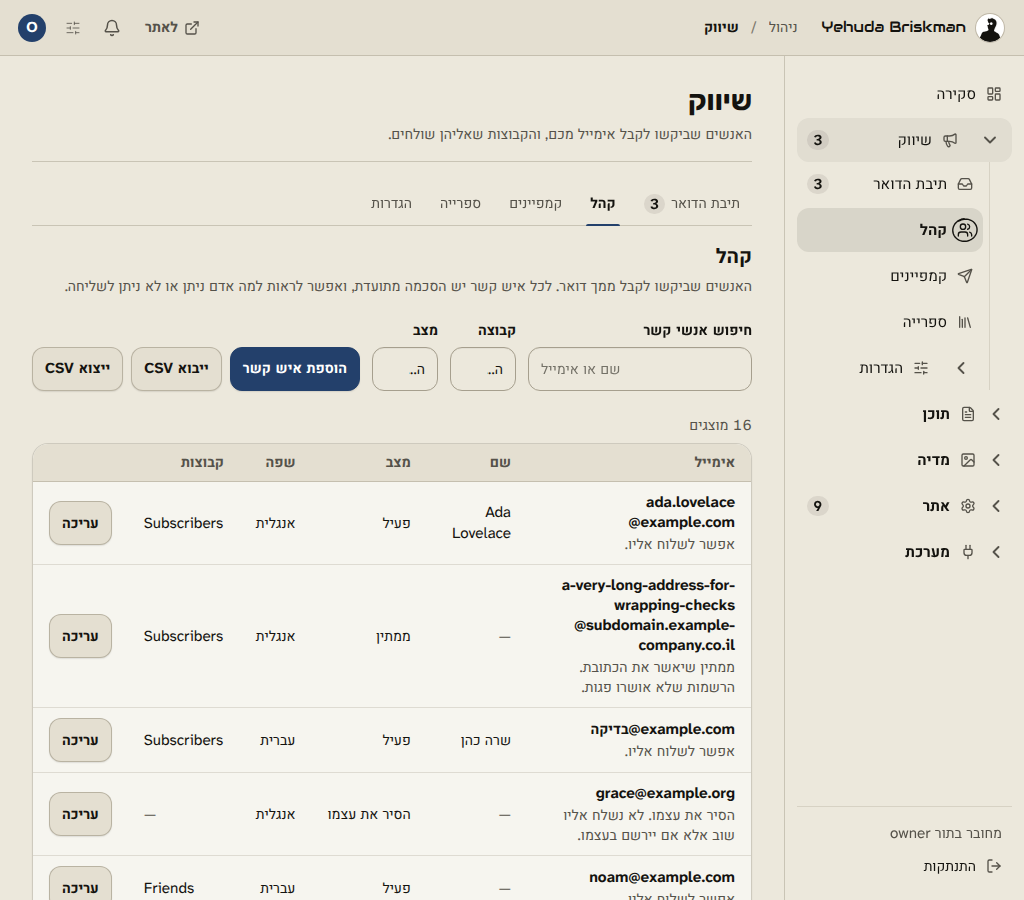
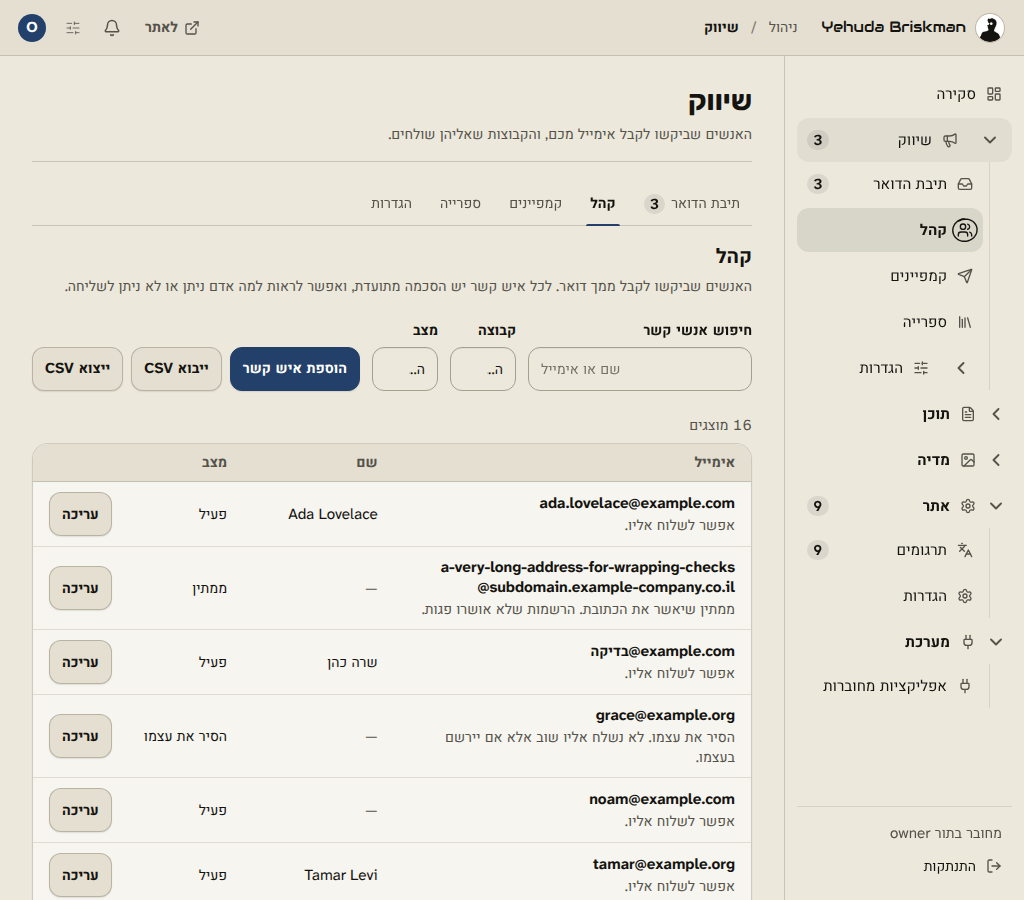
fix(admin): fixed table layout with token column widths; check cells and clipping
Translations and Campaigns tables use table-layout:fixed with columns from
tokens; titles clamp to two lines, the route is one clipped line, the action
column never shrinks. Audience filters wrap their buttons to a second row
below 1280. The desktop check now also fails on a cell taller than 6 lines
and on a table that scrolls or clips inside its card.

Claude-Session: https://claude.ai/code/session_013rV123XfZGHGiHaRnzMqnR

diff --git a/web/src/components/admin/announce/audience/AudienceDesktop.tsx b/web/src/components/admin/announce/audience/AudienceDesktop.tsx
@@ -88,7 +88,7 @@ export default function AudienceDesktop() {
         <p className="a-hint">{w.intro}</p>
       </div>
 
-      <div className="grid grid-cols-2 items-end gap-3 md:grid-cols-[minmax(14rem,2fr)_1fr_1fr_auto]" data-testid="audience-filters">
+      <div className="grid grid-cols-2 items-end gap-3 md:grid-cols-[minmax(14rem,2fr)_minmax(8rem,1fr)_minmax(8rem,1fr)] xl:grid-cols-[minmax(14rem,2fr)_1fr_1fr_auto]" data-testid="audience-filters">
         <div className="a-search col-span-2 md:col-span-1">
           <label className="a-label" htmlFor={`${uid}-q`}>{w.searchLabel}</label>
           <input id={`${uid}-q`} type="search" className="a-input min-h-[44px] !ps-3" dir="auto" placeholder={w.searchPlaceholder} value={q} onChange={(e) => setQ(e.target.value)} />
@@ -107,7 +107,7 @@ export default function AudienceDesktop() {
             {CONTACT_STATUSES.map((s) => <option key={s} value={s}>{w.statuses[s]}</option>)}
           </select>
         </div>
-        <div className="col-span-2 flex flex-wrap gap-2 md:col-span-1">
+        <div className="col-span-2 flex flex-wrap gap-2 md:col-span-3 xl:col-span-1">
           <button type="button" className="a-btn a-btn-primary min-h-[44px]" onClick={() => setDialog({ kind: "add" })}>{w.addContact}</button>
           <button type="button" className="a-btn min-h-[44px]" onClick={() => setDialog({ kind: "import" })}>{w.importCsv}</button>
           <a className="a-btn min-h-[44px]" href={EXPORT_URL} download title={w.exportHint}>{w.exportCsv}</a>
@@ -130,22 +130,22 @@ export default function AudienceDesktop() {
                   <th scope="col" className="!px-2 !text-start sm:!px-4">{w.colEmail}</th>
                   <th scope="col" className="!text-start hidden md:table-cell">{w.colName}</th>
                   <th scope="col" className="!px-2 !text-start sm:!px-4">{w.colStatus}</th>
-                  <th scope="col" className="!text-start hidden lg:table-cell">{w.colLang}</th>
-                  <th scope="col" className="!text-start hidden lg:table-cell">{w.colGroups}</th>
+                  <th scope="col" className="!text-start hidden xl:table-cell">{w.colLang}</th>
+                  <th scope="col" className="!text-start hidden xl:table-cell">{w.colGroups}</th>
                   <th scope="col" className="!px-2 !text-end sm:!px-4"><span className="sr-only">{w.colActions}</span></th>
                 </tr>
               </thead>
               <tbody>
                 {items.map((c) => (
                   <tr key={c.hash}>
-                    <td className="min-w-0 max-w-[18rem] !px-2 sm:!px-4">
+                    <td className="min-w-[14rem] max-w-[18rem] !px-2 sm:!px-4">
                       <span className="a-row-title block text-sm"><Email value={c.email} /></span>
                       <span className="a-row-meta !mt-0.5 text-sm"><Why c={c} /></span>
                     </td>
                     <td className="hidden min-w-0 max-w-[14rem] text-start [overflow-wrap:anywhere] md:table-cell">{c.name ? <bdi dir="auto">{c.name}</bdi> : <Empty />}</td>
                     <td className="a-fit !px-2 text-sm sm:!px-4">{w.statuses[c.status]}</td>
-                    <td className="a-fit hidden lg:table-cell text-sm">{c.lang ? w.langs[c.lang] : ""}</td>
-                    <td className="hidden min-w-[7rem] max-w-[14rem] text-sm [overflow-wrap:break-word] lg:table-cell" dir="auto">{c.groups.length ? c.groups.map(groupName).join(", ") : <Empty />}</td>
+                    <td className="a-fit hidden xl:table-cell text-sm">{c.lang ? w.langs[c.lang] : ""}</td>
+                    <td className="hidden min-w-[7rem] max-w-[14rem] text-sm [overflow-wrap:break-word] xl:table-cell" dir="auto">{c.groups.length ? c.groups.map(groupName).join(", ") : <Empty />}</td>
                     <td className="a-fit !px-2 !text-end sm:!px-4">
                       <button type="button" className="a-btn min-h-[44px] min-w-[44px]" aria-label={w.editFor(c.email)} onClick={() => setDialog({ kind: "edit", contact: c })}>{w.edit}</button>
                     </td>

diff --git a/web/src/components/admin/announce/campaigns/CampaignsTab.tsx b/web/src/components/admin/announce/campaigns/CampaignsTab.tsx
@@ -109,7 +109,15 @@ export default function CampaignsTab() {
           <div>
             <p className="a-hint !mt-0 mb-2 tabular-nums" role="status">{w.count(items.length)}</p>
             <div className="a-box overflow-x-auto">
-              <table className="a-table" aria-label={w.tableLabel}>
+              <table className="a-table a-table-fixed" aria-label={w.tableLabel}>
+                <colgroup>
+                  <col />
+                  <col className="a-col-pill" />
+                  <col className="a-col-num hidden sm:table-column" />
+                  <col className="a-col-num hidden md:table-column" />
+                  <col className="a-col-num hidden md:table-column" />
+                  <col className="a-col-when hidden xl:table-column" />
+                </colgroup>
                 <thead>
                   <tr>
                     <th scope="col" className="!text-start">{w.colName}</th>
@@ -117,7 +125,7 @@ export default function CampaignsTab() {
                     <th scope="col" className="hidden sm:table-cell" style={{ textAlign: "right" }}>{w.colSent}</th>
                     <th scope="col" className="hidden md:table-cell" style={{ textAlign: "right" }}>{w.colFailed}</th>
                     <th scope="col" className="hidden md:table-cell" style={{ textAlign: "right" }}>{w.colSkipped}</th>
-                    <th scope="col" className="!text-start hidden lg:table-cell">{w.colWhen}</th>
+                    <th scope="col" className="!text-start hidden xl:table-cell">{w.colWhen}</th>
                   </tr>
                 </thead>
                 <tbody>
@@ -127,7 +135,7 @@ export default function CampaignsTab() {
                         <button type="button" className="block min-h-[44px] w-full text-start" aria-label={w.open(c.name)} onClick={() => setOpen(c.id)}>
                           <span className="a-row-title block text-sm" dir="auto">{c.name}</span>
                           <span className="a-row-meta !mt-0.5 block truncate text-sm" dir="auto" title={c.subject}>{c.subject}</span>
-                          <span className="a-row-meta !mt-0.5 block text-sm lg:hidden">{c.status === "scheduled" && c.sendAt ? w.scheduledFor(when(c.sendAt)) : c.finishedAt ? w.finishedAt(when(c.finishedAt)) : w.updatedAt(when(c.updatedAt))}</span>
+                          <span className="a-row-meta !mt-0.5 block text-sm xl:hidden">{c.status === "scheduled" && c.sendAt ? w.scheduledFor(when(c.sendAt)) : c.finishedAt ? w.finishedAt(when(c.finishedAt)) : w.updatedAt(when(c.updatedAt))}</span>
                         </button>
                       </td>
                       <td className="a-fit text-sm">
@@ -136,7 +144,7 @@ export default function CampaignsTab() {
                       <td className="hidden tabular-nums sm:table-cell" style={{ textAlign: "right" }} dir="ltr">{c.status === "draft" ? <Empty /> : nf.format(c.counters.sent)}</td>
                       <td className="hidden tabular-nums md:table-cell" style={{ textAlign: "right" }} dir="ltr">{c.status === "draft" ? <Empty /> : nf.format(c.counters.failed)}</td>
                       <td className="hidden tabular-nums md:table-cell" style={{ textAlign: "right" }} dir="ltr">{c.status === "draft" ? <Empty /> : nf.format(c.counters.suppressed)}</td>
-                      <td className="hidden text-sm lg:table-cell">
+                      <td className="hidden text-sm xl:table-cell">
                         {c.status === "scheduled" && c.sendAt ? w.scheduledFor(when(c.sendAt)) : c.finishedAt ? w.finishedAt(when(c.finishedAt)) : w.updatedAt(when(c.updatedAt))}
                       </td>
                     </tr>

diff --git a/web/src/pages/AdminTranslations.tsx b/web/src/pages/AdminTranslations.tsx
@@ -207,7 +207,13 @@ export default function AdminTranslations() {
               </div>
             ) : (
               <div className="overflow-x-auto">
-                <table className="a-table">
+                <table className="a-table a-table-fixed">
+                  <colgroup>
+                    <col className="a-col-status" />
+                    <col />
+                    <col className="a-col-path hidden md:table-column" />
+                    <col className="a-col-action" />
+                  </colgroup>
                   <caption className="sr-only">
                     {w.nav.translations}: {TAB_LABEL[tab]}
                   </caption>
@@ -228,12 +234,12 @@ export default function AdminTranslations() {
                             <TranslationPill status={units.reduce((worst, u) => (RANK[u.status] < RANK[worst] ? u.status : worst), units[0].status)} />
                           </td>
                           <td className="a-main">
-                            <Link to={href} className="a-row-title">
+                            <Link to={href} className="a-row-title a-clamp-2" title={item.title}>
                               {item.title}
                             </Link>
                             <span className="a-row-meta">
                               <span>{TYPE_LABEL[item.type]}</span>
-                              <span className="min-w-0 [overflow-wrap:anywhere]">{fieldsOf(units)}</span>
+                              <span className="a-clamp-1 min-w-0" title={fieldsOf(units)}>{fieldsOf(units)}</span>
                               {item.visibility === "private" && <span>Private</span>}
                               <code dir="ltr" className="min-w-0 md:hidden [overflow-wrap:anywhere]">
                                 {heRoute(item.route)}

diff --git a/web/src/index.css b/web/src/index.css
@@ -2978,6 +2978,19 @@
   .a-table .a-fit .a-btn, .a-table td > .a-btn { flex: none; white-space: nowrap; overflow-wrap: normal; }
   /* The identifying cell keeps a readable measure however long its neighbours are. */
   .a-table .a-main { min-width: var(--a-col-main-min, 14rem); }
+  /* Fixed layout, columns from tokens: a long neighbour can no longer take a column's share. The path column is a share of the table, capped. */
+  .a-table-fixed { table-layout: fixed; }
+  .a-table-fixed .a-col-status { width: var(--a-col-status, 5.5rem); }
+  .a-table-fixed .a-col-path { width: clamp(9rem, 28%, var(--a-col-path-max, 22rem)); }
+  .a-table-fixed .a-col-pill { width: 9rem; }
+  .a-table-fixed .a-col-num { width: 5.5rem; }
+  .a-table-fixed .a-col-when { width: 14rem; }
+  .a-table-fixed .a-col-action { width: var(--a-col-action, 6rem); }
+  .a-table-fixed .a-main { min-width: 0; }
+  .a-table-fixed .a-fit { width: auto; }
+  /* Two lines at most, then an ellipsis; the full text sits on title. */
+  .a-clamp-1 { display: block; overflow: hidden; text-overflow: ellipsis; white-space: nowrap; }
+  .a-clamp-2 { display: -webkit-box; -webkit-box-orient: vertical; -webkit-line-clamp: 2; line-clamp: 2; overflow: hidden; overflow-wrap: anywhere; }
   /* A machine string (route, path) in its own column: one line, cut with an ellipsis, full value on title. */
   .a-table .a-path { display: block; max-width: var(--a-col-path-max, 20rem); overflow: hidden; text-overflow: ellipsis; white-space: nowrap; }
 

diff --git a/web/src/test/adminTableActions.test.ts b/web/src/test/adminTableActions.test.ts
@@ -38,8 +38,15 @@ describe("admin table actions", () => {
     expect(r).toMatch(/max-width:/);
   });
 
+  it("fixed layout takes its column widths from tokens", () => {
+    expect(rule(".a-table-fixed {")).toMatch(/table-layout:\s*fixed/);
+    expect(rule(".a-table-fixed .a-col-path")).toMatch(/clamp\(/);
+    expect(rule(".a-clamp-2")).toMatch(/line-clamp:\s*2/);
+  });
+
   it("the Translations table uses them", () => {
     const page = readFileSync(resolve(__dirname, "../pages/AdminTranslations.tsx"), "utf8");
+    expect(page).toContain("a-table a-table-fixed");
     expect(page).toContain('className="a-main"');
     expect(page).toMatch(/className="a-path[^"]*"/);
   });

diff --git a/web/src/pages/Admin.tsx b/web/src/pages/Admin.tsx
@@ -192,8 +192,8 @@ function PostsDesktop() {
                     const changes = p.status === "published" && Boolean(p.draft);
                     return (
                       <tr key={p.slug}>
-                        <td>
-                          <Link to={`/admin/posts/${p.slug}`} className="a-row-title">
+                        <td className="a-main">
+                          <Link to={`/admin/posts/${p.slug}`} className="a-row-title a-clamp-2" title={titleOf(p.title, p.slug)}>
                             {titleOf(p.title, p.slug)}
                           </Link>
                           <span className="a-row-meta">
